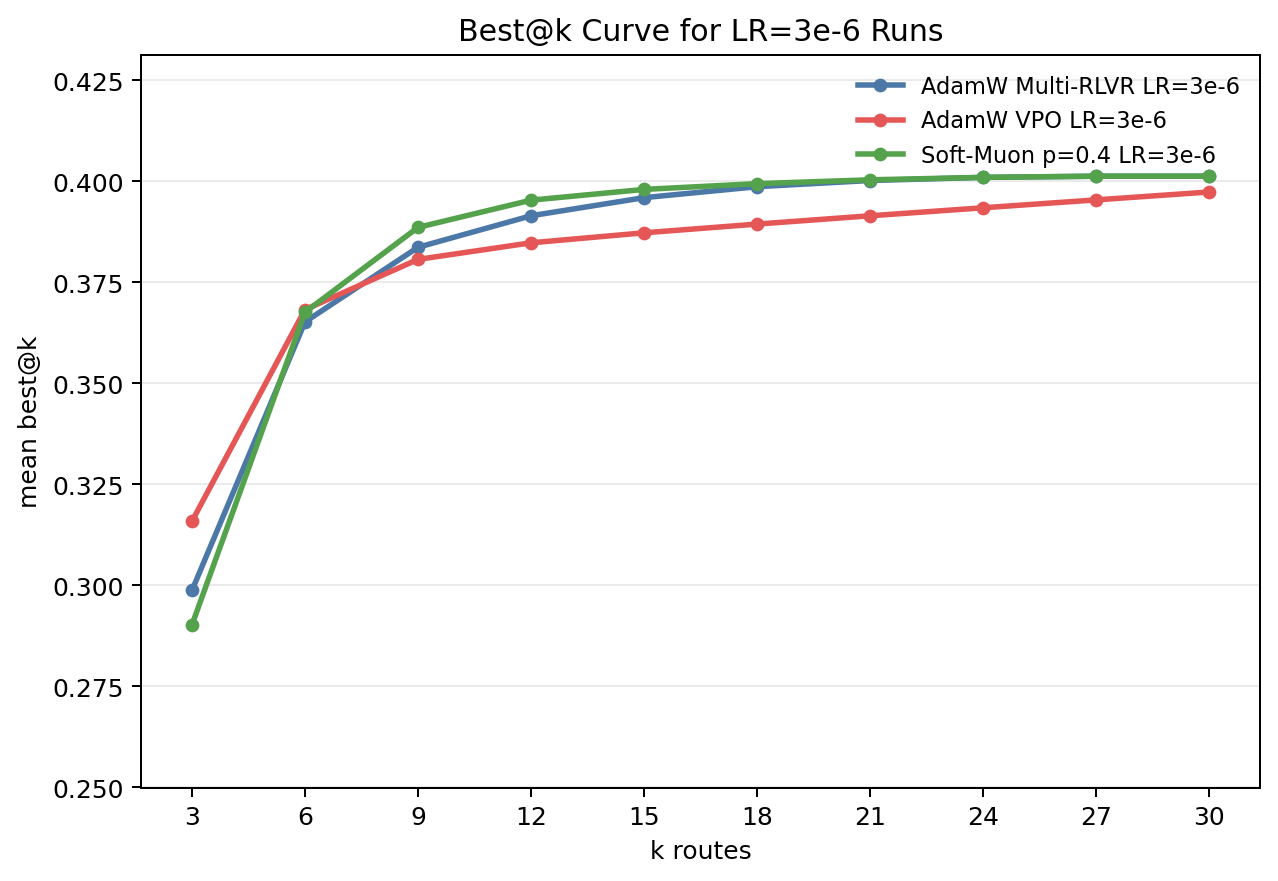
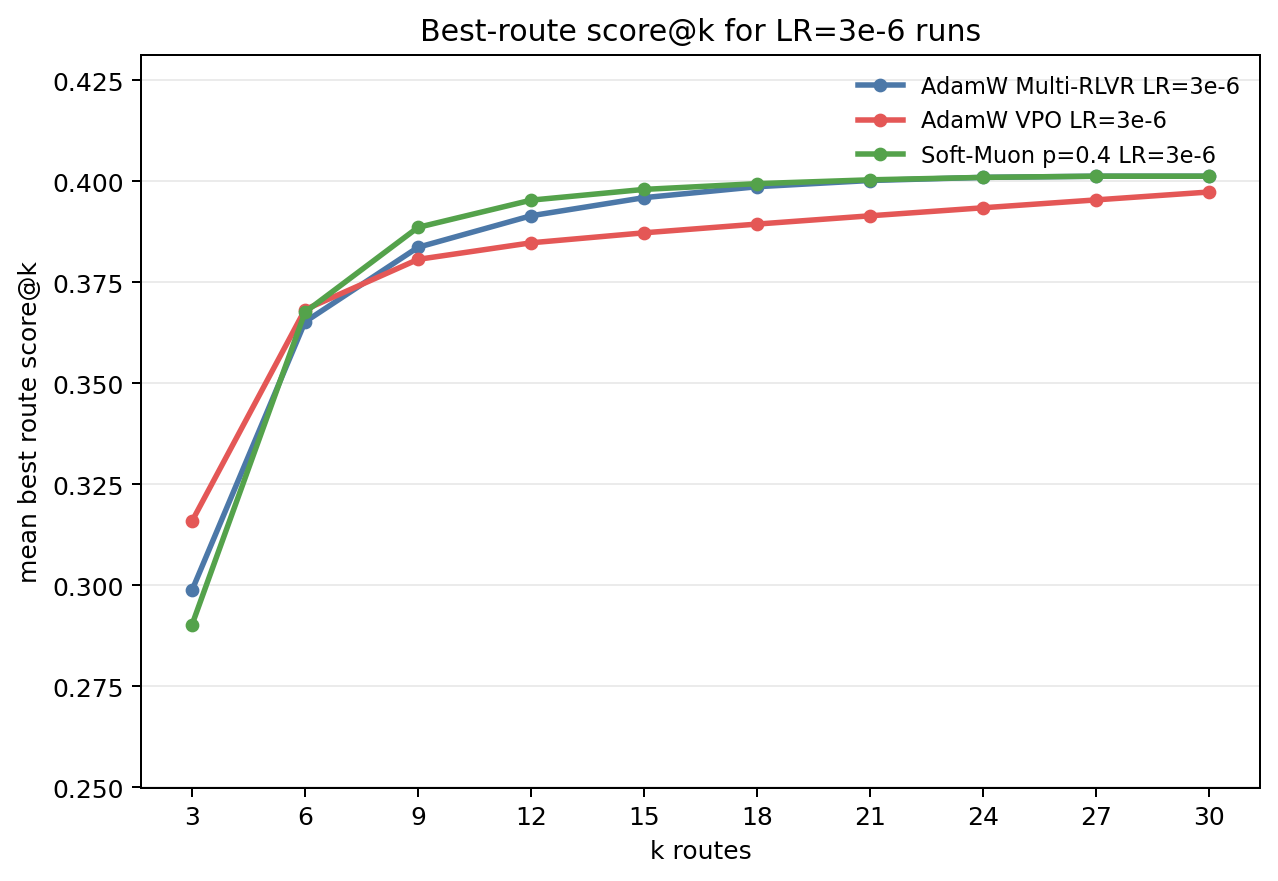
Sync page with rl-diversity docs

Changed region(s): [[0.3357, 0.0, 0.7629, 0.0613], [0.0, 0.3065, 0.0305, 0.6742]]

diff --git a/_layouts/default.html b/_layouts/default.html
@@ -76,6 +76,34 @@
         font-size: 14px;
         line-height: 1.45;
       }
+
+      figure.small-fit {
+        margin: 28px 0 0;
+        padding: 18px;
+        background: #ffffff;
+        border: 1px solid #d9e0e7;
+        border-radius: 8px;
+      }
+
+      figure.small-fit img {
+        width: 60%;
+        margin: 0 auto;
+      }
+
+      figure.small-fit figcaption {
+        max-width: 760px;
+        margin: 12px auto 0;
+        color: #667381;
+        font-size: 14px;
+        line-height: 1.45;
+        text-align: center;
+      }
+
+      @media (max-width: 760px) {
+        figure.small-fit img {
+          width: 100%;
+        }
+      }
     </style>
   </head>
   <body>

diff --git a/index.md b/index.md
@@ -1,40 +1,55 @@
-
+---
+layout: default
+title: RL Diversity with Soft-Muon
+---
 
 # RL Diversity with Soft-Muon
 
 2026/5/30
 
-## Muon and diversity
+## Muon diversifies input-output relationships
 
-The 2D weights `W` in a neural network or transformer represent linear mappings from input activations to outputs. Let `G` be the estimated gradient of the loss with respect to such a weight matrix. The SVD `sum_i s_i output_i input_i^T` of a matrix `G` decomposes it into weighted input-output relationships `s_i output_i input_i^T` where `s_i>0` is the corresponding singular value. Muon approximates the transformation of the gradient `G` where all the `s_i` are scaled to the same value. We can think of this as increasing the diversity of the learning signal instead of letting it be dominated by a few relationships `output_i input_i^T` with large singular value.
+The 2D weights `W` in a neural network or transformer represent linear mappings from input activations to outputs. Let `G` be the estimated gradient of the loss with respect to such a weight matrix. The SVD `sum_i s_i output_i input_i^T` of a matrix `G` decomposes it into weighted input-output relationships
+
+`s_i output_i input_i^T`
+
+where `s_i>0` is the corresponding singular value. [Muon](https://kellerjordan.github.io/posts/muon/) approximates the transformation of the gradient `G` where all the `s_i` are scaled to the same value. We can think of this as increasing the diversity of the learning signal instead of letting it be dominated by a few relationships `output_i input_i^T` with large singular value.
 
 ## Diversity collapse in RL
 
-In RL we only get one reward signal per reponse (or a few in the case of VPO). Therefore the estimated policy gradient may not have enough information to estimate 1000s of input-output relationships, so the Muon update becomes dominated by noise. On the other hand collapse of diversity and exploration is a well-known issue that can arise in RL finetuning of LLMs, and methods such as [vector policy optimization (VPO)](https://arxiv.org/abs/2605.22817) seek to ameliorate this. We explore whether [Soft-Muon](https://nilin.github.io/contra-muon-and-soft-muon/) provides an alternative way to encourage diversity and exploration during RL, while being more robust to noisy policy gradients than full Muon.   
+In RL we only get one reward signal per reponse (or a few in the case of VPO). Therefore the estimated policy gradient may not have enough information to estimate 1000s of input-output relationships, so the Muon update becomes dominated by noise. On the other hand collapse of diversity and exploration is a well-known issue that can arise in RL finetuning of LLMs, and methods such as [vector policy optimization (VPO)](https://arxiv.org/abs/2605.22817) seek to ameliorate this.
 
-![Cumulative p=0.4 approximation built from stacked Newton-Schulz iterates.](assets/soft-muon-p04-cumulative-fit.png)
 
-_Fixed p=0.4 Soft-Muon approximation built as a cumulative stack of standard Muon's Newton-Schulz iterates._
+## Soft Muon
 
+We explore whether [Soft-Muon](https://nilin.github.io/contra-muon-and-soft-muon/) provides an alternative way to encourage diversity and exploration during RL, while being more robust to noisy policy gradients than full Muon.
+
+<figure class="small-fit">
+  <img src="assets/soft-muon-p04-cumulative-fit.png" alt="Cumulative p=0.4 approximation built from stacked Newton-Schulz iterates.">
+  <figcaption>Fixed p=0.4 Soft-Muon approximation built as a cumulative stack of standard Muon's Newton-Schulz iterates.</figcaption>
+</figure>
 
 ## Experiment
 
 We test Soft-Muon for RL in a setting from the [VPO paper](https://arxiv.org/abs/2605.22817). We use a 7x7 version of the Maze benchmark described in the paper. We compare AdamW GRPO baseline vs Muon GRPO vs AdamW VPO. Like the VPO paper we train on multi-answer chains: one model completion contains m=3 candidate answers (routes). We use multi-answer chains for all methods (AdamW baseline, Muon, and AdamW VPO). For the AdamW and Muon GRPO methods, each rollout is scored by the best route among the 3 following the VPO paper (probably not ideal for these methods for late training). VPO additionally receives a vector reward r(x, y) representing a decomposition of the reward into [completion, gold, diamond, avoid_lava], whereas the other methods get the averaged vector reward.
 
-We run 50 steps and sweng learning rates 1e-6, 3e-6, 1e-5 and picked 3e-6 based on the pass@30 for the AdamW GRPO baseline.  
-
+We run 50 steps and swept learning rates 1e-6, 3e-6, 1e-5 and picked 3e-6 based on mean best-route score@30 for the AdamW GRPO baseline.
 
 Please see the full experiment settings at [this repo](https://github.com/nilin/rl-diversity).
 
+The plot below reports mean best-route score@k for 7x7 Maze RLVR runs at learning rate 3e-6, excluding k=1. Each route gets a scalar reward from `[completion, gold, diamond, avoid_lava]`, then the evaluator takes the best route score in each k-route pool and averages those best scores.
 
-Best@k comparison for 7x7 Maze RLVR runs at learning rate 3e-6, excluding VPO and k=1.
-
-![Best@k curve comparing AdamW Multi-RLVR, Soft-Muon p=0.4, and VPO at learning rate 3e-6.](assets/best-at-k-lr3e-6-with-vpo.png)
+![Mean best-route score@k curve comparing AdamW Multi-RLVR, Soft-Muon p=0.4, and VPO at learning rate 3e-6.](assets/best-at-k-lr3e-6-with-vpo.png)
 
 <!---
 [View the version including AdamW VPO at LR=3e-6](assets/best-at-k-lr3e-6-with-vpo.png).
-![Best@k curve comparing AdamW Multi-RLVR and Soft-Muon p=0.4 at learning rate 3e-6.](assets/best-at-k-lr3e-6.png)
+![Mean best-route score@k curve comparing AdamW Multi-RLVR and Soft-Muon p=0.4 at learning rate 3e-6.](assets/best-at-k-lr3e-6.png)
 --->
 
-_Mean best@k over route pools for AdamW Multi-RLVR and fixed-coefficient Soft-Muon p=0.4._
+_Mean best-route score@k over route pools for AdamW Multi-RLVR, AdamW VPO, and fixed-coefficient Soft-Muon p=0.4._
 
+## Discussion and related methods
+
+[Pion](https://arxiv.org/abs/2605.19282) is a high-pass version of Muon which achieves the same goal of suppressing noisy small singular pairs while keeping Muon behavior for leading singular modes. The Pion paper also identifies RL as a relevant setting due to the low-signal regime. These Muon-like methods encourage diversity at the level of the optimizer and may prove to be to complimentary to methods such as [VPO](https://arxiv.org/abs/2605.22817) which modify the loss to encourage diversity.
+
+Interestingly [PufferLib](https://puffer.ai/blog.html) found standard Muon to be a significant improvement over Adam. I think it's likely that PufferLib's classical RL setting with large numbers of rollouts makes it behave more similarly to the pre-training regime with higher signal to noise, and that this regime benefits the standard Muon which applies full strength to all singular modes.